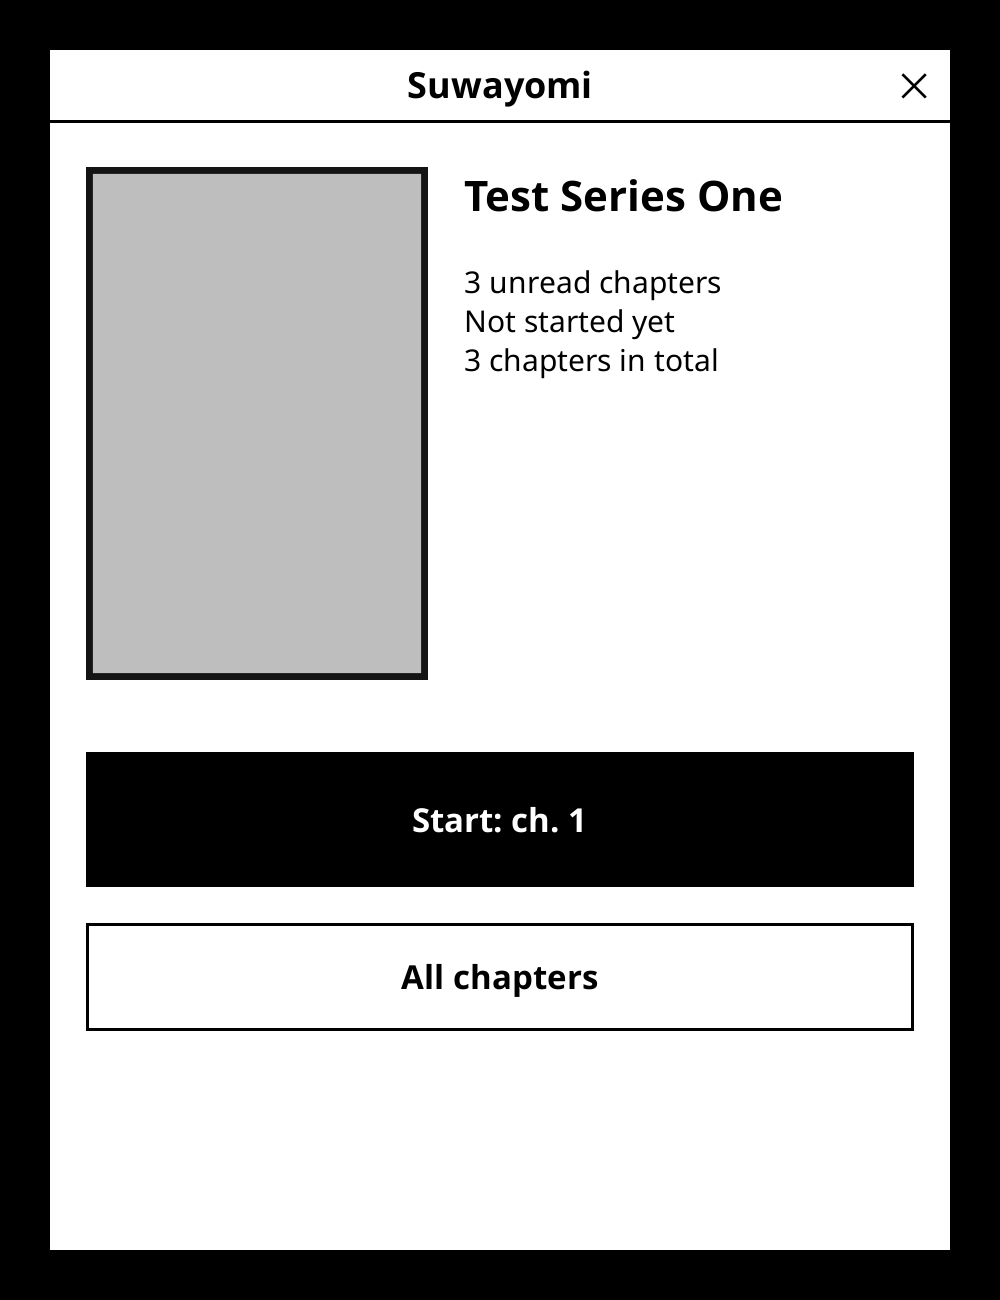
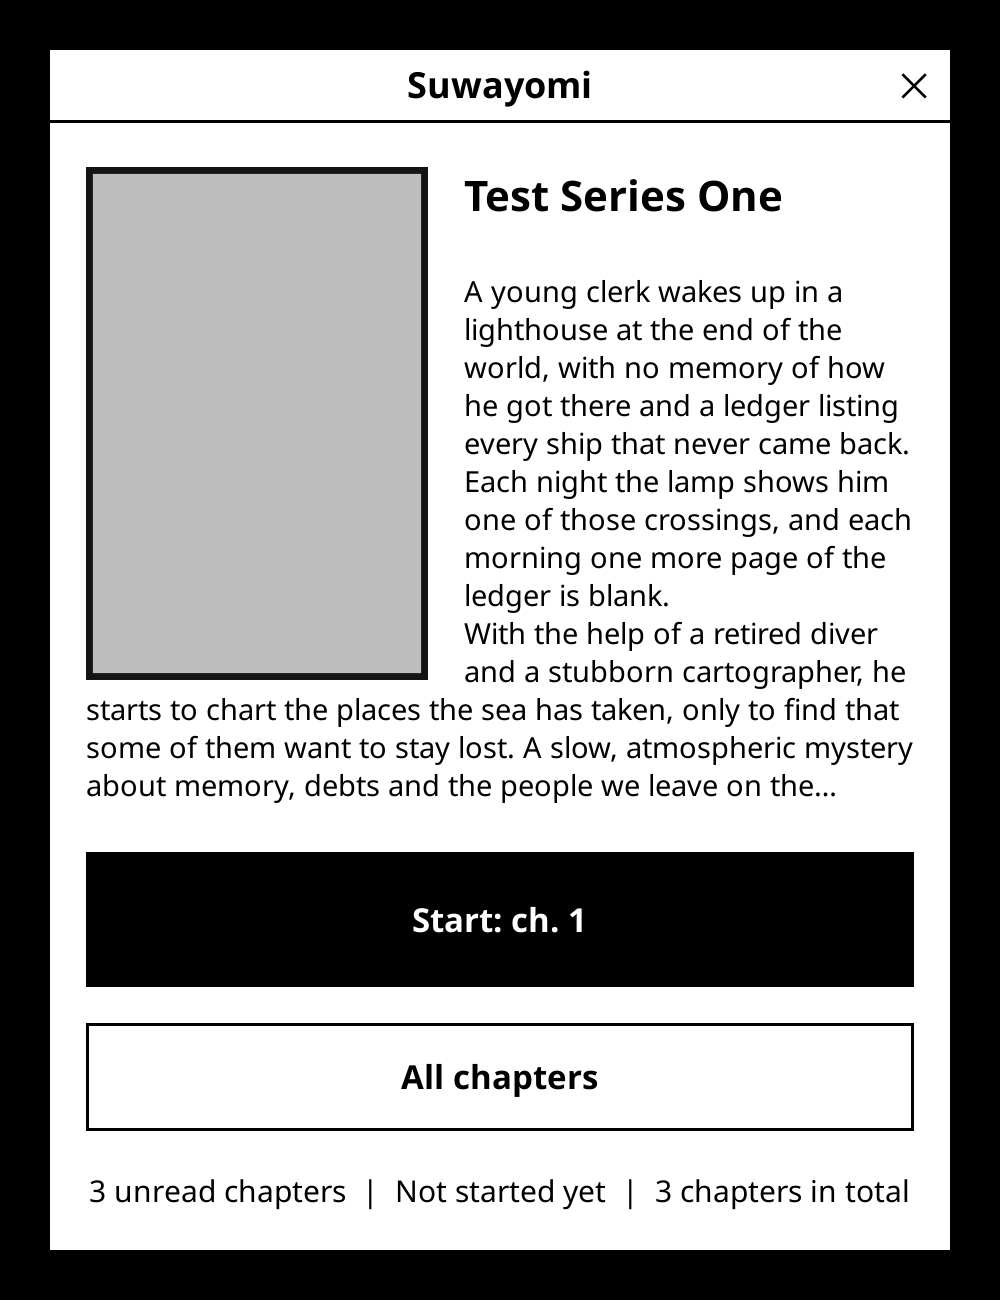
Series screen: a summary flowing around the cover (v0.1.3)
The series screen shows the beginning of the series' description, beside the cover and then across the whole width
below it; a tap opens all of it. It comes with the chapter list, in the same request. The blocks sources append
(trackers, associated names, related series), Markdown links and HTML are removed (suwayomi_summary.lua, with
tests). The buttons moved to the bottom of the screen and the reading progress is now one line under them.

diff --git a/CHANGELOG.md b/CHANGELOG.md
@@ -2,6 +2,32 @@
 
 All notable changes to this project. Dates are release dates.
 
+## v0.1.3 (2026-11-26)
+
+The series screen now shows what a series is about.
+
+### Added
+- **A summary on the series screen**, flowing around the cover (beside it under the title, then across the whole
+  width below it): the beginning of the description Suwayomi has for the series. Tap it to read all of it. It comes
+  with the chapter list, in the same request. The blocks that sources add after the story (associated names,
+  trackers, related series), Markdown links and HTML are removed (`suwayomi_summary.lua`, tested by
+  `tests/summary_test.lua`). It is left out when a series has no description, or when fewer than about three lines
+  would fit.
+
+### Changed
+- On the series screen, to make room for the summary, the buttons moved to the bottom of the screen, and the reading
+  progress (unread chapters, last chapter read, total) is now a single line under them (in a smaller font when it is
+  long, wrapped only if even that does not fit).
+
+### How it was checked
+Unit tests (the 20 new ones on the summary cleanup, and the previous ones). The KOReader emulator at the InkPad X
+resolution against a fake server: short and very long titles, French with large chapter numbers, a short summary, a
+series without one, and taps on the summary and the buttons. The new request and the cleanup against a real Suwayomi
+v2.4.2373 server (read-only; the descriptions of its 70 library series all come out clean, none empty). Then the new
+series screen on the author's e-reader (PocketBook InkPad X, KOReader v2026.07.2). The text wrapping relies on how
+KOReader's text box records where its lines start (`vertical_string_list`), which is the same in the emulator's
+version (v2025.10) and in v2026.07.2.
+
 ## v0.1.2 (2026-11-13)
 
 Fixes the screen freezing for 10 to 40 seconds, often at the start of a new chapter, with nothing on screen. The

diff --git a/README.md b/README.md
@@ -14,8 +14,8 @@ chapters, prefetching of the next ones, and reading progress kept in sync with t
 
 - **Library** as a cover mosaic (or a list), with Suwayomi's categories as tabs and a badge with the number of
   unread chapters. Opens by itself when KOReader starts (can be turned off).
-- **Series screen** with the cover, your progress and a big *Resume* button that goes straight to the right
-  chapter and page.
+- **Series screen** with the cover, your progress, a big *Resume* button that goes straight to the right
+  chapter and page, and the beginning of the series' summary (tap it to read it all).
 - **Chapters are downloaded as CBZ files** and opened in KOReader's own reader: all its page-turning, zoom and
   display options apply.
 - **Chapter chaining**: turn the page after the last page and the next chapter opens; go back from page 1 and you
@@ -48,7 +48,8 @@ chapters, prefetching of the next ones, and reading progress kept in sync with t
   the KOReader emulator (v2025.10) against a fake server, and with the unit tests in `tests/`. It has not been
   tried on other devices yet. It should work elsewhere, since the code only uses KOReader's own APIs (plus the
   optional PocketBook-specific loopback trick of the VPN add-on): bug reports are welcome.
-- A Suwayomi server reachable from the e-reader, using its GraphQL API (developed against v2.4.2366).
+- A Suwayomi server reachable from the e-reader, using its GraphQL API (developed against v2.4.2366, also used with
+  v2.4.2373).
 - **The chapters are read from the Suwayomi server's downloads.** The plugin asks Suwayomi for the CBZ file of a
   chapter, and Suwayomi refuses chapters it has not downloaded. For those, the plugin asks the server to download
   them (see above), which only works if the server can reach the source. Turning on automatic download of new

diff --git a/tests/README.md b/tests/README.md
@@ -1,6 +1,6 @@
 # Tests
 
-Four standalone Lua scripts, run with the LuaJIT shipped with KOReader. They need no device and no Suwayomi
+Five standalone Lua scripts, run with the LuaJIT shipped with KOReader. They need no device and no Suwayomi
 server: every dependency (network, scheduler, file system, server) is replaced by a stand-in.
 
 | Script | Checks |
@@ -9,6 +9,7 @@ server: every dependency (network, scheduler, file system, server) is replaced b
 | `serverdl_test.lua` | Waiting for the server to download a chapter: progress, failures, time-out, cancellation, restart of a stopped download manager |
 | `vpn_route_test.lua` | VPN add-on: home / tunnel route choice, tunnel reuse, profile handling |
 | `i18n_test.lua` | Language selection, English fallback, every text has a French entry with the same `%` markers |
+| `summary_test.lua` | Cleaning the description of a series: appendix blocks, Markdown links, HTML, empty descriptions |
 
 ## Running them
 
@@ -21,6 +22,7 @@ or the emulator build). From KOReader's base folder, with the plugin installed u
 ./luajit /path/to/tests/serverdl_test.lua
 ./luajit /path/to/tests/vpn_route_test.lua
 ./luajit /path/to/tests/i18n_test.lua
+./luajit /path/to/tests/summary_test.lua
 ```
 
 Each script prints `OK` / `FAIL` per check and exits with a non-zero status if anything fails. They were written
